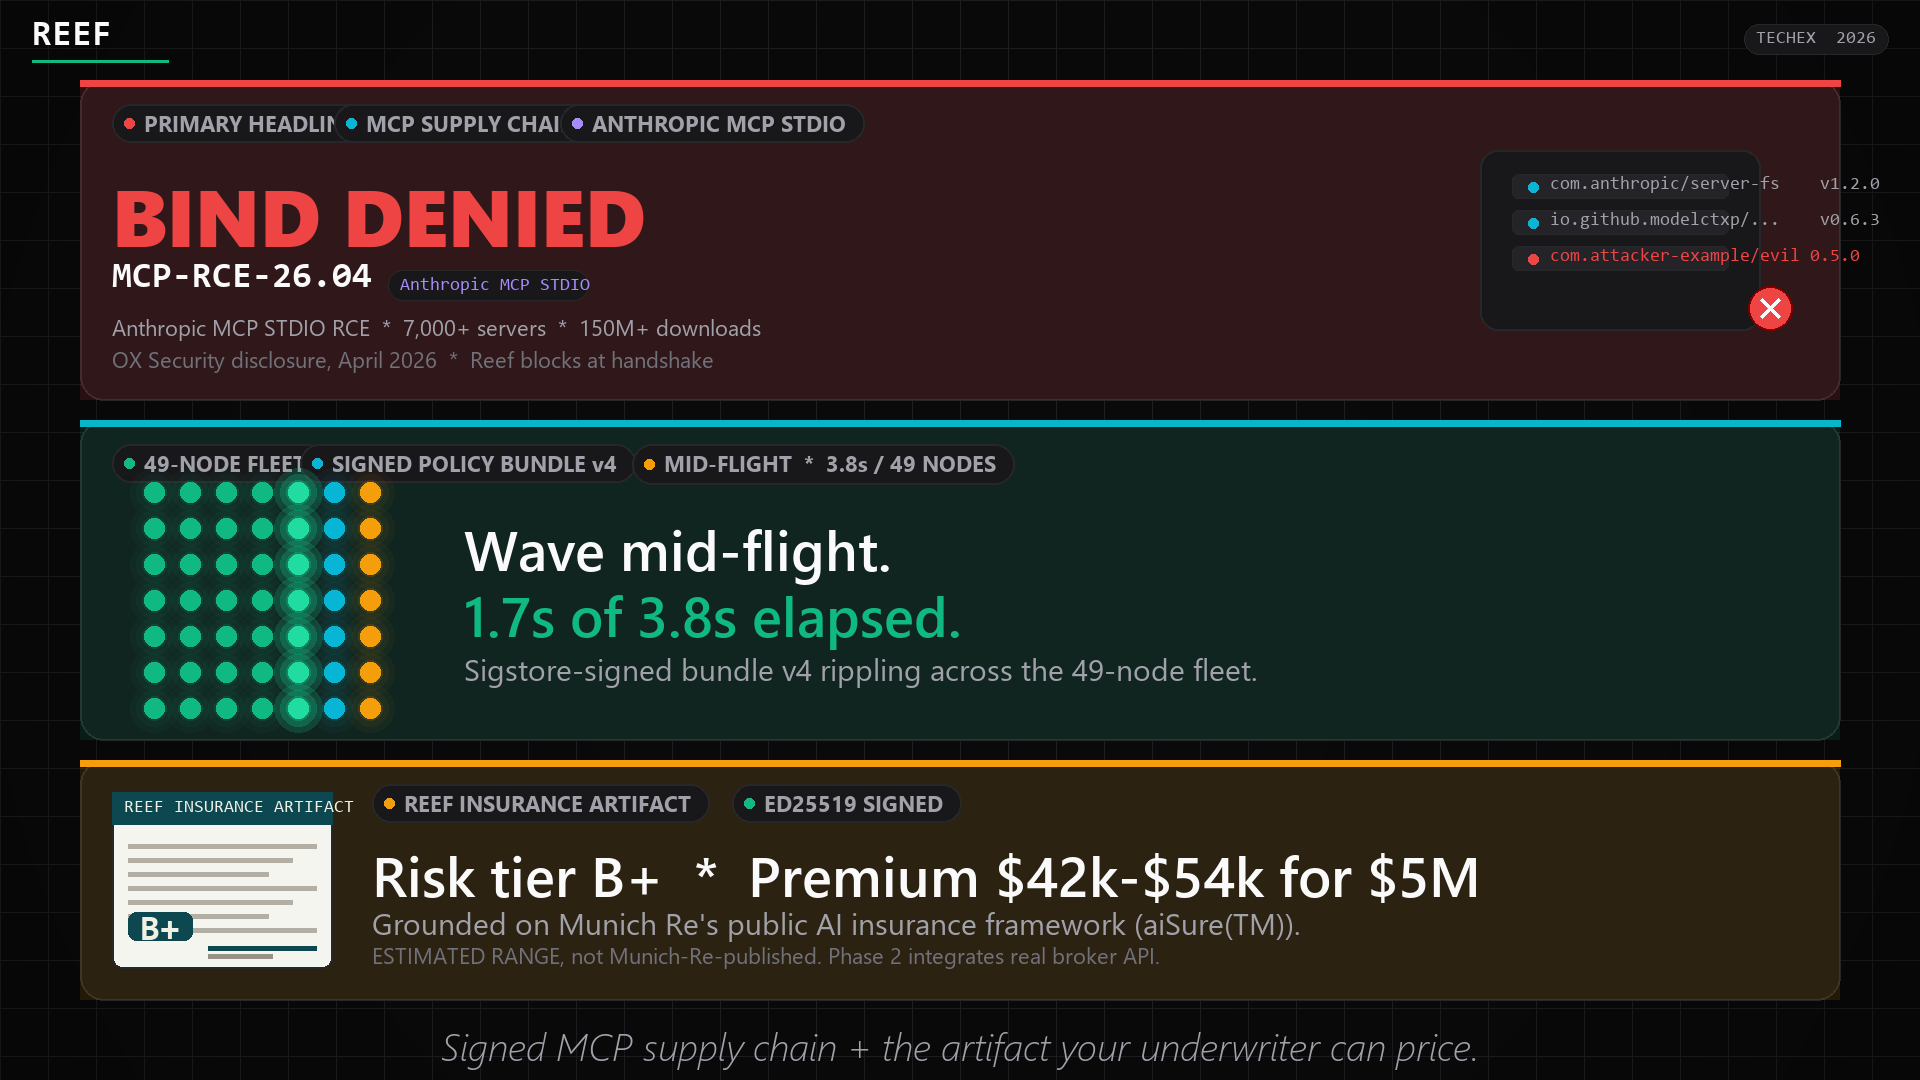
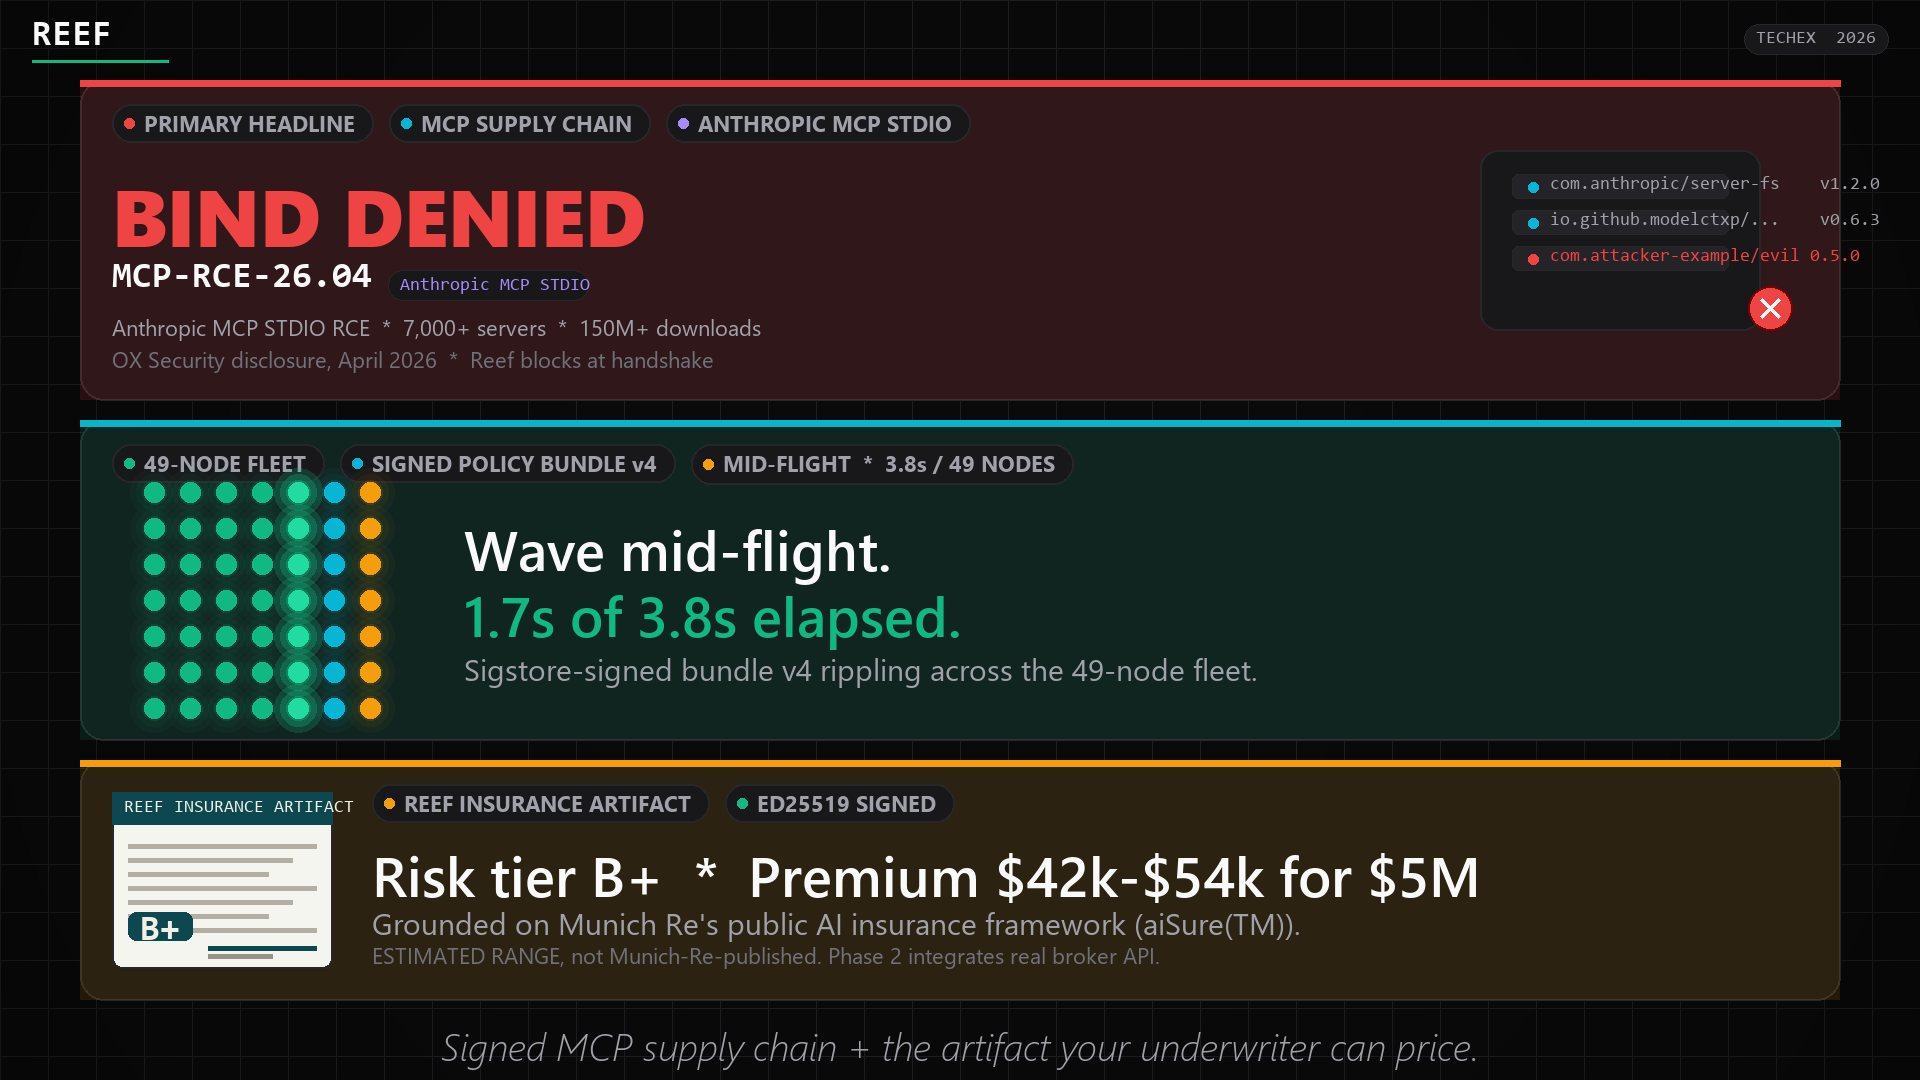
fix(cover): dynamic chip positioning prevents badge text truncation

Changed region(s): [[0.1562, 0.3972, 0.5625, 0.4583], [0.1562, 0.0917, 0.5, 0.1222], [0.375, 0.7333, 0.5, 0.7639]]

diff --git a/scripts/generate_cover_image.py b/scripts/generate_cover_image.py
@@ -183,10 +183,15 @@ def draw_top_panel(img: Image.Image) -> None:
     halo = halo.filter(ImageFilter.GaussianBlur(radius=70))
     img.paste(halo, (px, py), halo)
 
-    # Chip at top-left of the panel
-    chip(draw, px + 32, py + 24, "PRIMARY HEADLINE", color=RED)
-    chip(draw, px + 254, py + 24, "MCP SUPPLY CHAIN", color=CYAN)
-    chip(draw, px + 480, py + 24, "ANTHROPIC MCP STDIO", color=VIOLET)
+    # Chip at top-left of the panel — positions computed dynamically so
+    # long labels don't get overlapped by the next chip's rounded rect.
+    chip_x = px + 32
+    chip_gap = 16
+    w1, _ = chip(draw, chip_x, py + 24, "PRIMARY HEADLINE", color=RED)
+    chip_x += w1 + chip_gap
+    w2, _ = chip(draw, chip_x, py + 24, "MCP SUPPLY CHAIN", color=CYAN)
+    chip_x += w2 + chip_gap
+    chip(draw, chip_x, py + 24, "ANTHROPIC MCP STDIO", color=VIOLET)
 
     # Big BIND DENIED headline
     draw.text(
@@ -297,10 +302,14 @@ def draw_middle_panel(img: Image.Image) -> None:
     halo = halo.filter(ImageFilter.GaussianBlur(radius=80))
     img.paste(halo, (px, py), halo)
 
-    # Chip
-    chip(draw, px + 32, py + 24, "49-NODE FLEET", color=EMERALD)
-    chip(draw, px + 220, py + 24, "SIGNED POLICY BUNDLE v4", color=CYAN)
-    chip(draw, px + 552, py + 24, "MID-FLIGHT  *  3.8s / 49 NODES", color=AMBER)
+    # Chip row — positions computed dynamically per chip width.
+    chip_x = px + 32
+    chip_gap = 16
+    w1, _ = chip(draw, chip_x, py + 24, "49-NODE FLEET", color=EMERALD)
+    chip_x += w1 + chip_gap
+    w2, _ = chip(draw, chip_x, py + 24, "SIGNED POLICY BUNDLE v4", color=CYAN)
+    chip_x += w2 + chip_gap
+    chip(draw, chip_x, py + 24, "MID-FLIGHT  *  3.8s / 49 NODES", color=AMBER)
 
     # 7x7 grid
     grid_size = 7
@@ -433,10 +442,13 @@ def draw_bottom_panel(img: Image.Image) -> None:
     draw.rectangle((pdf_x + 96, sig_y, pdf_x + pdf_w - 16, sig_y + 4), fill=(13, 71, 79))
     draw.rectangle((pdf_x + 96, sig_y + 8, pdf_x + pdf_w - 60, sig_y + 12), fill=(150, 145, 135))
 
-    # Headline copy on the right
+    # Headline copy on the right — chip positions computed dynamically.
     rx = px + 32 + pdf_w + 40
-    chip(draw, rx, py + 24, "REEF INSURANCE ARTIFACT", color=AMBER)
-    chip(draw, rx + 360, py + 24, "ED25519 SIGNED", color=EMERALD)
+    chip_x = rx
+    chip_gap = 16
+    w1, _ = chip(draw, chip_x, py + 24, "REEF INSURANCE ARTIFACT", color=AMBER)
+    chip_x += w1 + chip_gap
+    chip(draw, chip_x, py + 24, "ED25519 SIGNED", color=EMERALD)
 
     draw.text(
         (rx, py + 76),